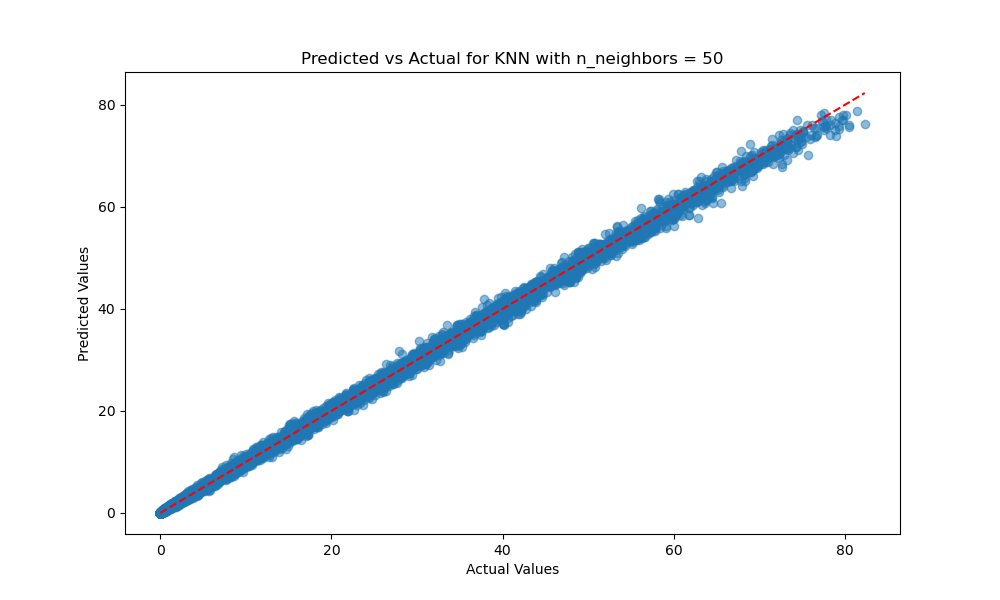
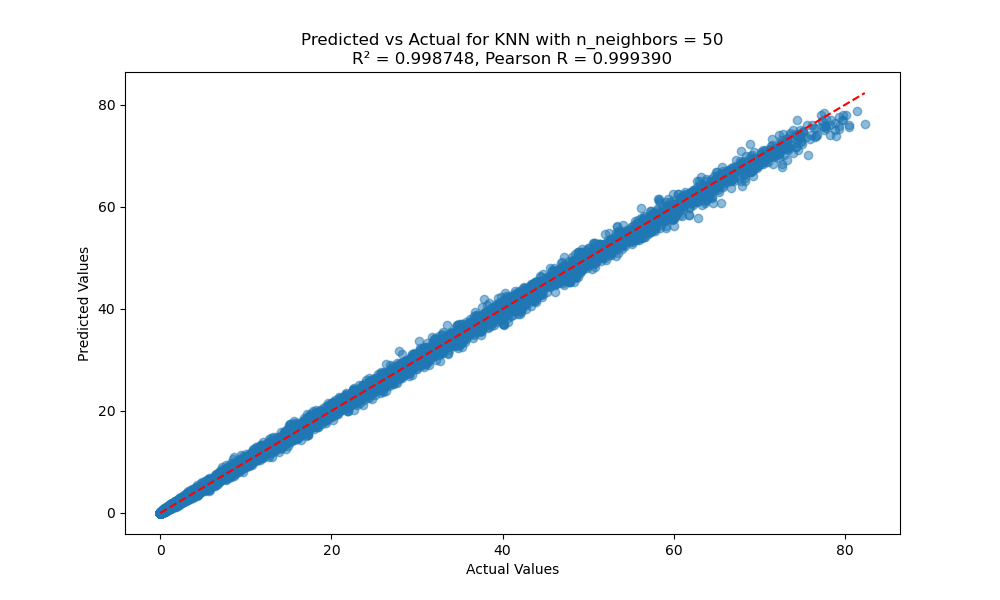
better graphs and mc.py refactor plus progress bar

Changed region(s): [[0.279, 0.06, 0.744, 0.12]]

diff --git a/modeling.py b/modeling.py
@@ -5,6 +5,8 @@ import matplotlib.pyplot as plt
 from sklearn.ensemble import RandomForestRegressor
 from sklearn.linear_model import LinearRegression as SKLinearRegression
 from sklearn.neighbors import KNeighborsRegressor
+from sklearn.metrics import r2_score
+from scipy.stats import pearsonr
 
 
 class KNN:
@@ -125,10 +127,8 @@ class EnsembleModel:
         outputs = {}
         for model in self.models:
             time_begin = time.monotonic()
-            outputs[str(model)] = [
-                model.test(self.data.test_x, self.data.test_y[self.target]),
-                time.monotonic() - time_begin,
-            ]
+            r2_score = model.test(self.data.test_x, self.data.test_y[self.target])
+            outputs[str(model)] = [r2_score, time.monotonic() - time_begin]
             if self.verbose:
                 print(
                     f"{str(model)}: {outputs[str(model)][0]} in {round(outputs[str(model)][1], 5)} seconds"
@@ -138,6 +138,8 @@ class EnsembleModel:
     def plot_predictions_vs_actual(self, output_dir="plot"):
         for model in self.models:
             predictions = model.predict(self.data.test_x)
+            r2 = r2_score(self.data.test_y[self.target], predictions)
+            pearson_r, _ = pearsonr(self.data.test_y[self.target], predictions)
             plt.figure(figsize=(10, 6))
             plt.scatter(self.data.test_y[self.target], predictions, alpha=0.5)
             plt.plot(
@@ -151,13 +153,21 @@ class EnsembleModel:
                 ],
                 "r--",
             )
-            plt.title(f"Predicted vs Actual for {str(model)}")
+            plt.title(
+                f"Predicted vs Actual for {str(model)}\nR² = {r2:.6f}, Pearson R = {pearson_r:.6f}"
+            )
             plt.xlabel("Actual Values")
             plt.ylabel("Predicted Values")
             plt.savefig(
                 f"{output_dir}/{self.target}_Predicted_vs_Actual_{str(model).replace(' ', '_')}.png"
             )
             plt.close()
+
+    def print_r2_scores(self):
+        print("R² Scores:")
+        for model in self.models:
+            r2_score = model.test(self.data.test_x, self.data.test_y[self.target])
+            print(f"{str(model)}: {r2_score}")
 
     def __str__(self):
         return f"EnsembleModel with to target {self.target} with models {[str(model) for model in models]}"
@@ -177,6 +187,7 @@ if __name__ == "__main__":
     Up_and_Out_Call.fit()
     Up_and_Out_Call.test()
     Up_and_Out_Call.plot_predictions_vs_actual()
+    Up_and_Out_Call.print_r2_scores()
 
     Up_and_In_Call = EnsembleModel(
         "monte_carlo_simulation_results_heston.csv", models, "Up-and-In_Call"
@@ -184,6 +195,7 @@ if __name__ == "__main__":
     Up_and_In_Call.fit()
     Up_and_In_Call.test()
     Up_and_In_Call.plot_predictions_vs_actual()
+    Up_and_In_Call.print_r2_scores()
 
     European_Lookback_Call = EnsembleModel(
         "monte_carlo_simulation_results_heston.csv", models, "European_Lookback_Call"
@@ -191,6 +203,7 @@ if __name__ == "__main__":
     European_Lookback_Call.fit()
     European_Lookback_Call.test()
     European_Lookback_Call.plot_predictions_vs_actual()
+    European_Lookback_Call.print_r2_scores()
 
     Asian_Call = EnsembleModel(
         "monte_carlo_simulation_results_heston.csv", models, "Asian_Call"
@@ -198,6 +211,7 @@ if __name__ == "__main__":
     Asian_Call.fit()
     Asian_Call.test()
     Asian_Call.plot_predictions_vs_actual()
+    Asian_Call.print_r2_scores()
 
     Double_Barrier_Call = EnsembleModel(
         "monte_carlo_simulation_results_heston.csv", models, "Double_Barrier_Call"
@@ -205,3 +219,4 @@ if __name__ == "__main__":
     Double_Barrier_Call.fit()
     Double_Barrier_Call.test()
     Double_Barrier_Call.plot_predictions_vs_actual()
+    Double_Barrier_Call.print_r2_scores()

diff --git a/mc.py b/mc.py
@@ -5,6 +5,7 @@ import numpy as np
 import pandas as pd
 from joblib import Parallel, delayed
 from scipy.stats import norm
+from tqdm import tqdm
 
 # Set up parameter ranges
 S0_range = (50, 150)  # Initial stock price range
@@ -20,7 +21,7 @@ rho_v = -0.5  # Correlation between stock price and volatility
 v0 = 0.04  # Initial variance (i.e., initial volatility squared)
 
 # Monte Carlo Parameters
-N_iterations = 1000  # Fixed number of iterations per simulation
+N_iterations = 10000  # Fixed number of iterations per simulation
 steps = 252  # Number of time steps (days in a year)
 upper_barrier = 110  # Upper barrier for up-and-in and up-and-out options
 lower_barrier = 90  # Lower barrier for double barrier options
@@ -180,9 +181,10 @@ def run_monte_carlo(simulations, N_iterations, steps, theta):
             "Rho": rho_sum / N_iterations,
         }
 
-    # Parallelize the simulations using joblib
+    # Parallelize the simulations using joblib with tqdm progress bar
     results = Parallel(n_jobs=-1)(
-        delayed(run_single_simulation)(i, theta) for i in range(simulations)
+        delayed(run_single_simulation)(i, theta)
+        for i in tqdm(range(simulations), desc="Simulations")
     )
 
     return pd.DataFrame(results)
@@ -196,7 +198,7 @@ def save_to_csv(df, filename):
 
 
 # Number of Monte Carlo simulations to run
-simulations = 100000  # Adjust this as needed
+simulations = 1000000  # Adjust this as needed
 
 # Run the Monte Carlo simulations
 df_results = run_monte_carlo(simulations, N_iterations, steps, theta)
